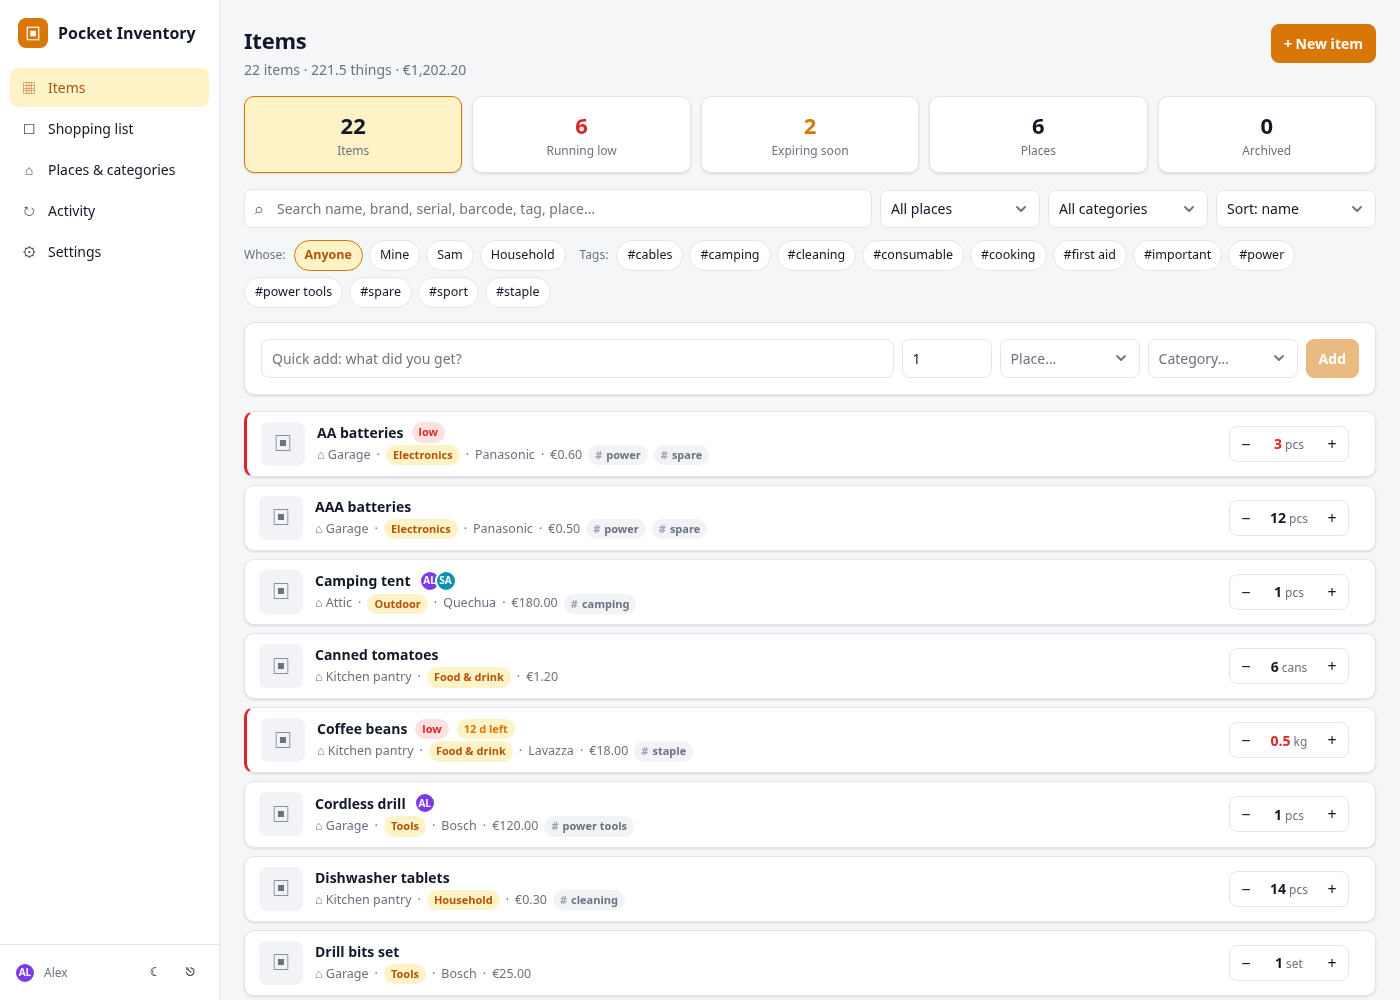
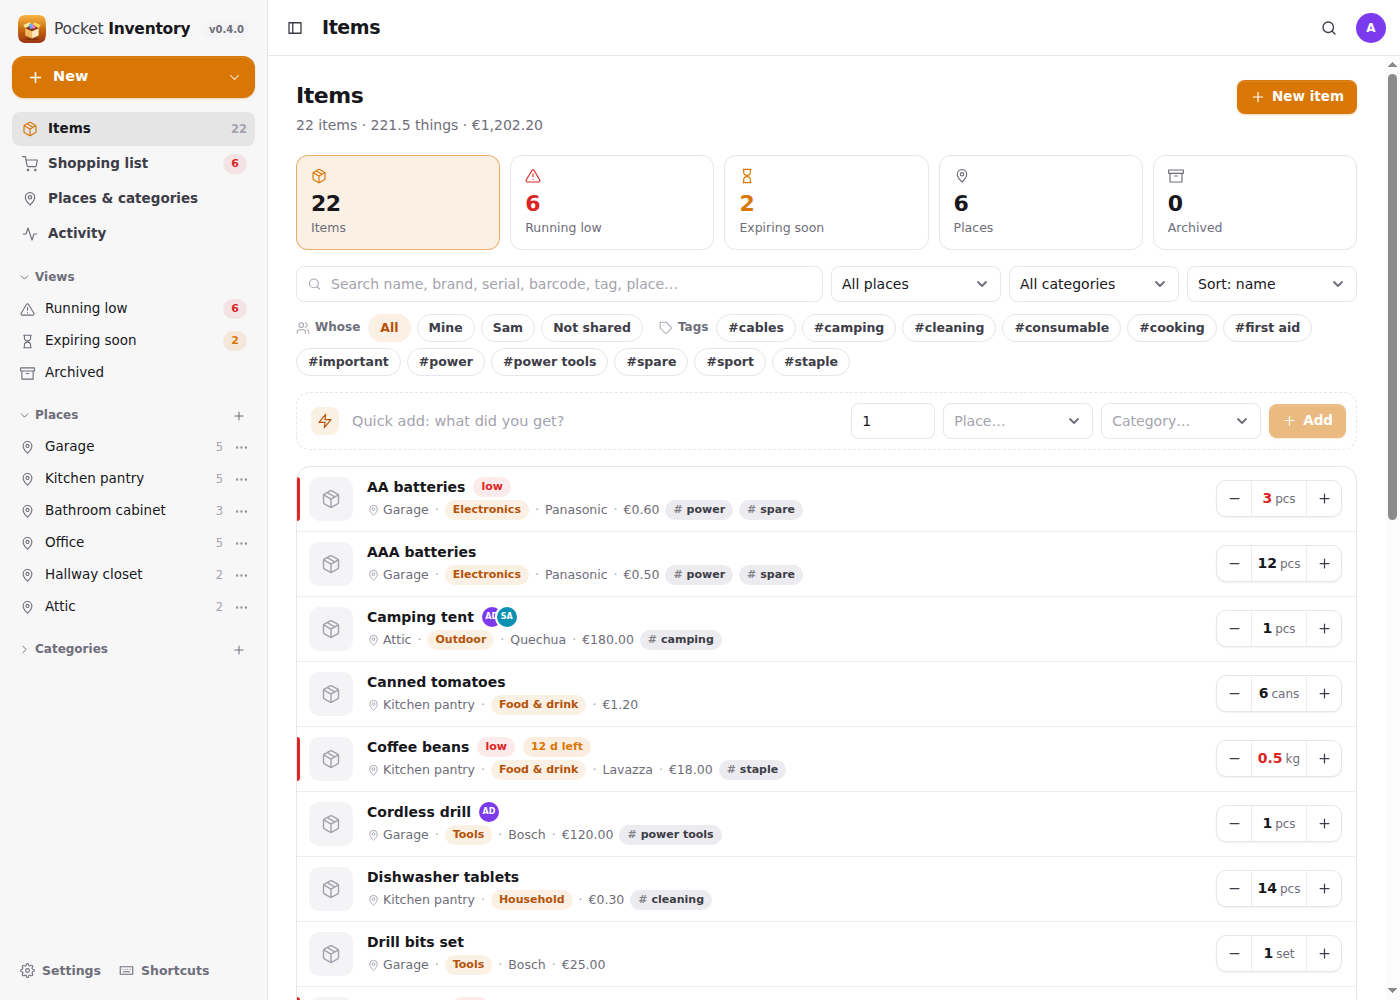
README: screenshots of the new design

diff --git a/docs/configuration.md b/docs/configuration.md
@@ -26,7 +26,7 @@ All settings are environment variables. Nothing is required.
 
 | Variable | Default | Description |
 |---|---|---|
-| `AUTH_MODE` | `local` | `local`: built-in email + password, first-run setup screen, multiple users managed under Settings → Users. `proxy`: trust the user name from a header set by your SSO proxy; users are auto-created on first visit (first one becomes admin). `none`: no login at all, one implicit user — only for trusted networks. |
+| `AUTH_MODE` | `local` | `local`: built-in email + password, first-run setup screen, multiple users managed under Settings → People. `proxy`: trust the user name from a header set by your SSO proxy; users are auto-created on first visit (first one becomes admin). `none`: no login at all, one implicit user — only for trusted networks. |
 | `AUTH_PROXY_HEADER` | `Remote-User` | Header carrying the user name in `proxy` mode. |
 | `AUTH_PROXY_EMAIL_HEADER` | `Remote-Email` | Header carrying the email in `proxy` mode. |
 | `ADMIN_EMAIL`, `ADMIN_PASSWORD`, `ADMIN_NAME` | – | In `local` mode, create this admin on first start instead of showing the setup screen. Password must be 8+ characters. |

diff --git a/README.md b/README.md
@@ -43,7 +43,7 @@ On the go, **[Pocket Homelab](https://pockethomelab.com/)** is its companion app
 
 <p align="center">
   <img src="docs/screenshots/items-mobile.png" width="260" alt="Items page on a phone, dark mode"><br>
-  <sub>Installable PWA with a bottom tab bar and dark mode.</sub>
+  <sub>Installable PWA: a slide-out sidebar, a + button for new items, and dark mode.</sub>
 </p>
 
 ## Features
@@ -69,7 +69,7 @@ curl -O https://raw.githubusercontent.com/abjelosevic88/pocket-homelab-inventory
 docker compose up -d
 ```
 
-Open `http://<host>:8080`, create your account, add the rest of the household under **Settings → Users**, and start typing into the quick-add box.
+Open `http://<host>:8080`, create your account, add the rest of the household under **Settings → People**, and start typing into the quick-add box.
 
 <details>
 <summary><b>docker run one-liner</b></summary>
